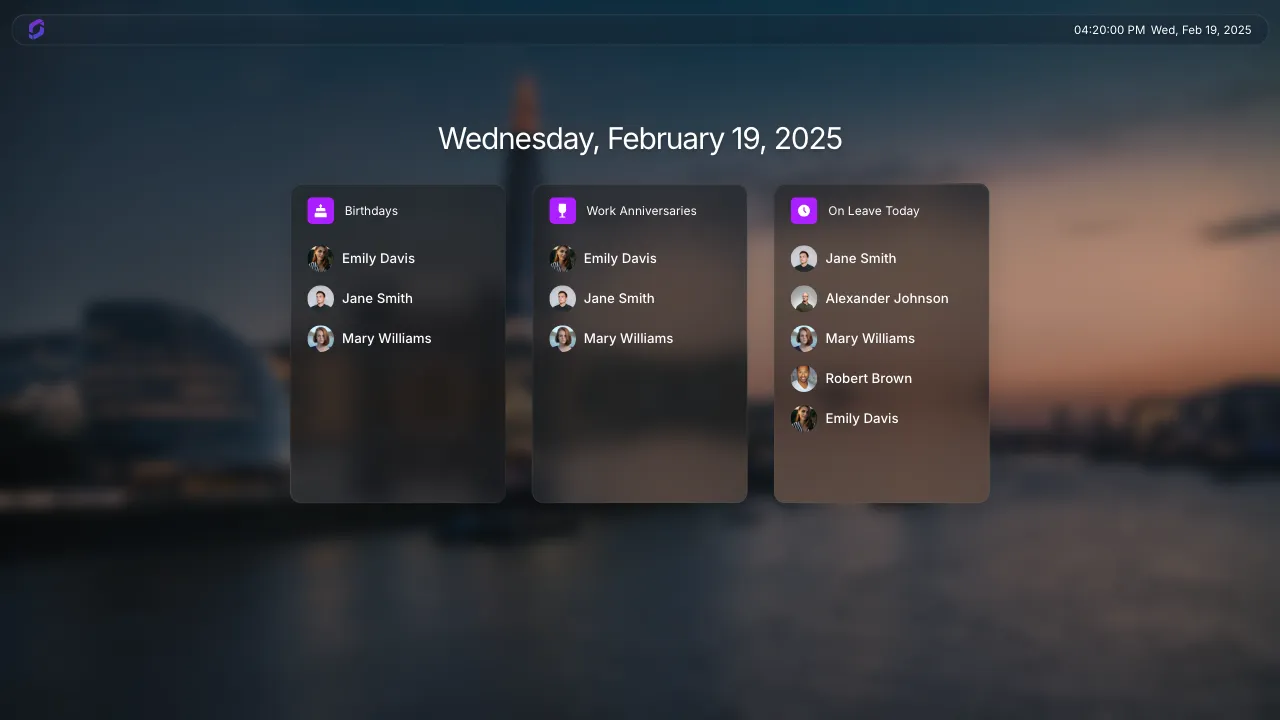
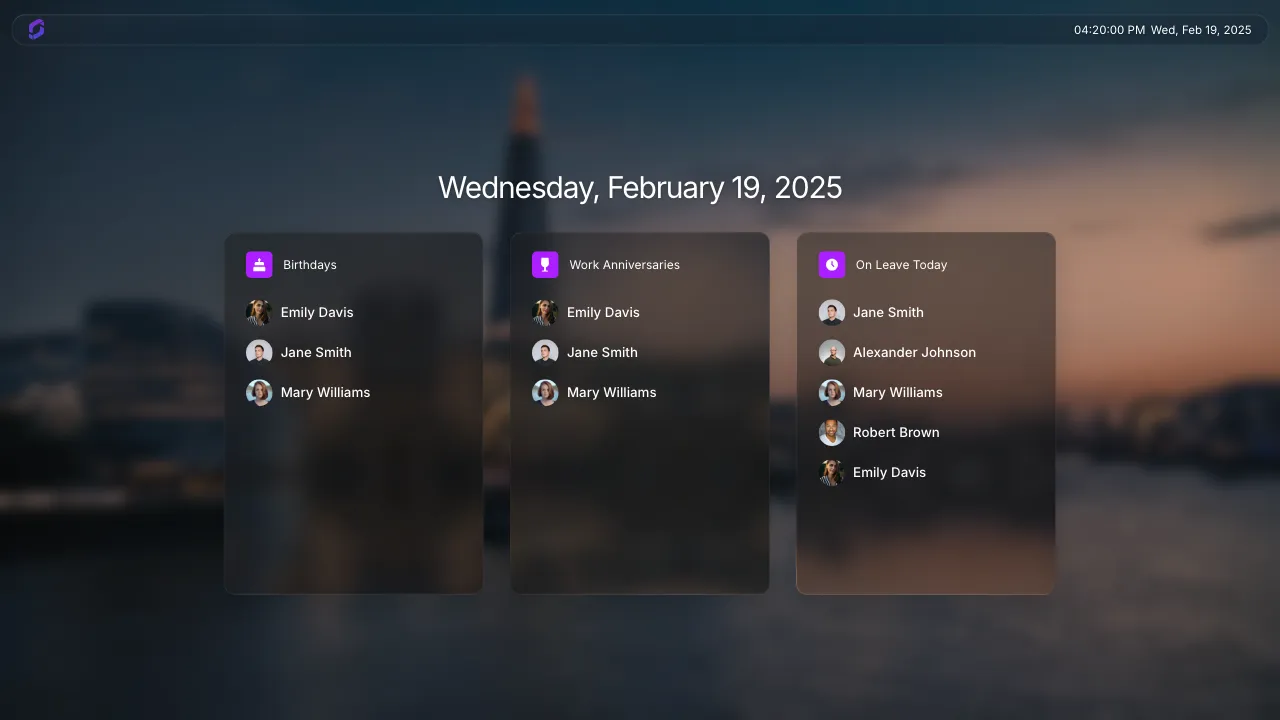
style(bamboo-hr-app): improve layout spacing and card sizing
- center content vertically in landscape instead of fixed padding-top
- widen landscape card grid and increase card height
- widen portrait card grid, increase gap and min-height
- update screenshots

diff --git a/edge-apps/bamboo-hr-app/src/css/style.css b/edge-apps/bamboo-hr-app/src/css/style.css
@@ -103,8 +103,8 @@ auto-scaler {
   display: flex;
   flex-direction: column;
   align-items: center;
-  padding-top: 10rem;
-  padding-bottom: 2rem;
+  justify-content: center;
+  padding: 6rem 0 2rem;
 }
 
 #date-heading {
@@ -121,8 +121,8 @@ auto-scaler {
   display: grid;
   grid-template-columns: repeat(3, 1fr);
   gap: 2.5rem;
-  width: calc(100% - 12rem);
-  max-width: 65.5rem;
+  width: calc(100% - 4rem);
+  max-width: 78rem;
 }
 
 .card {
@@ -130,8 +130,8 @@ auto-scaler {
   display: flex;
   flex-direction: column;
   gap: 2rem;
-  padding: 1.25rem 1.5rem;
-  height: 30rem;
+  padding: 1.75rem 2rem;
+  height: 34rem;
   border-radius: var(--radius-card);
   border: 1.05px solid var(--color-card-border);
   background-image:
@@ -273,7 +273,7 @@ auto-scaler {
   }
 
   #content {
-    padding-top: 20rem;
+    padding: 8rem 0 2rem;
   }
 
   #date-heading {
@@ -287,13 +287,14 @@ auto-scaler {
     grid-template-columns: 1fr;
     grid-auto-rows: 1fr;
     width: calc(100% - 3rem);
-    max-width: 40rem;
-    gap: 1.25rem;
+    max-width: 48rem;
+    gap: 1.75rem;
   }
 
   .card {
     height: auto;
-    padding: 1.75rem 2rem;
+    min-height: 16rem;
+    padding: 2rem 2.5rem;
     gap: 1.5rem;
   }
 
